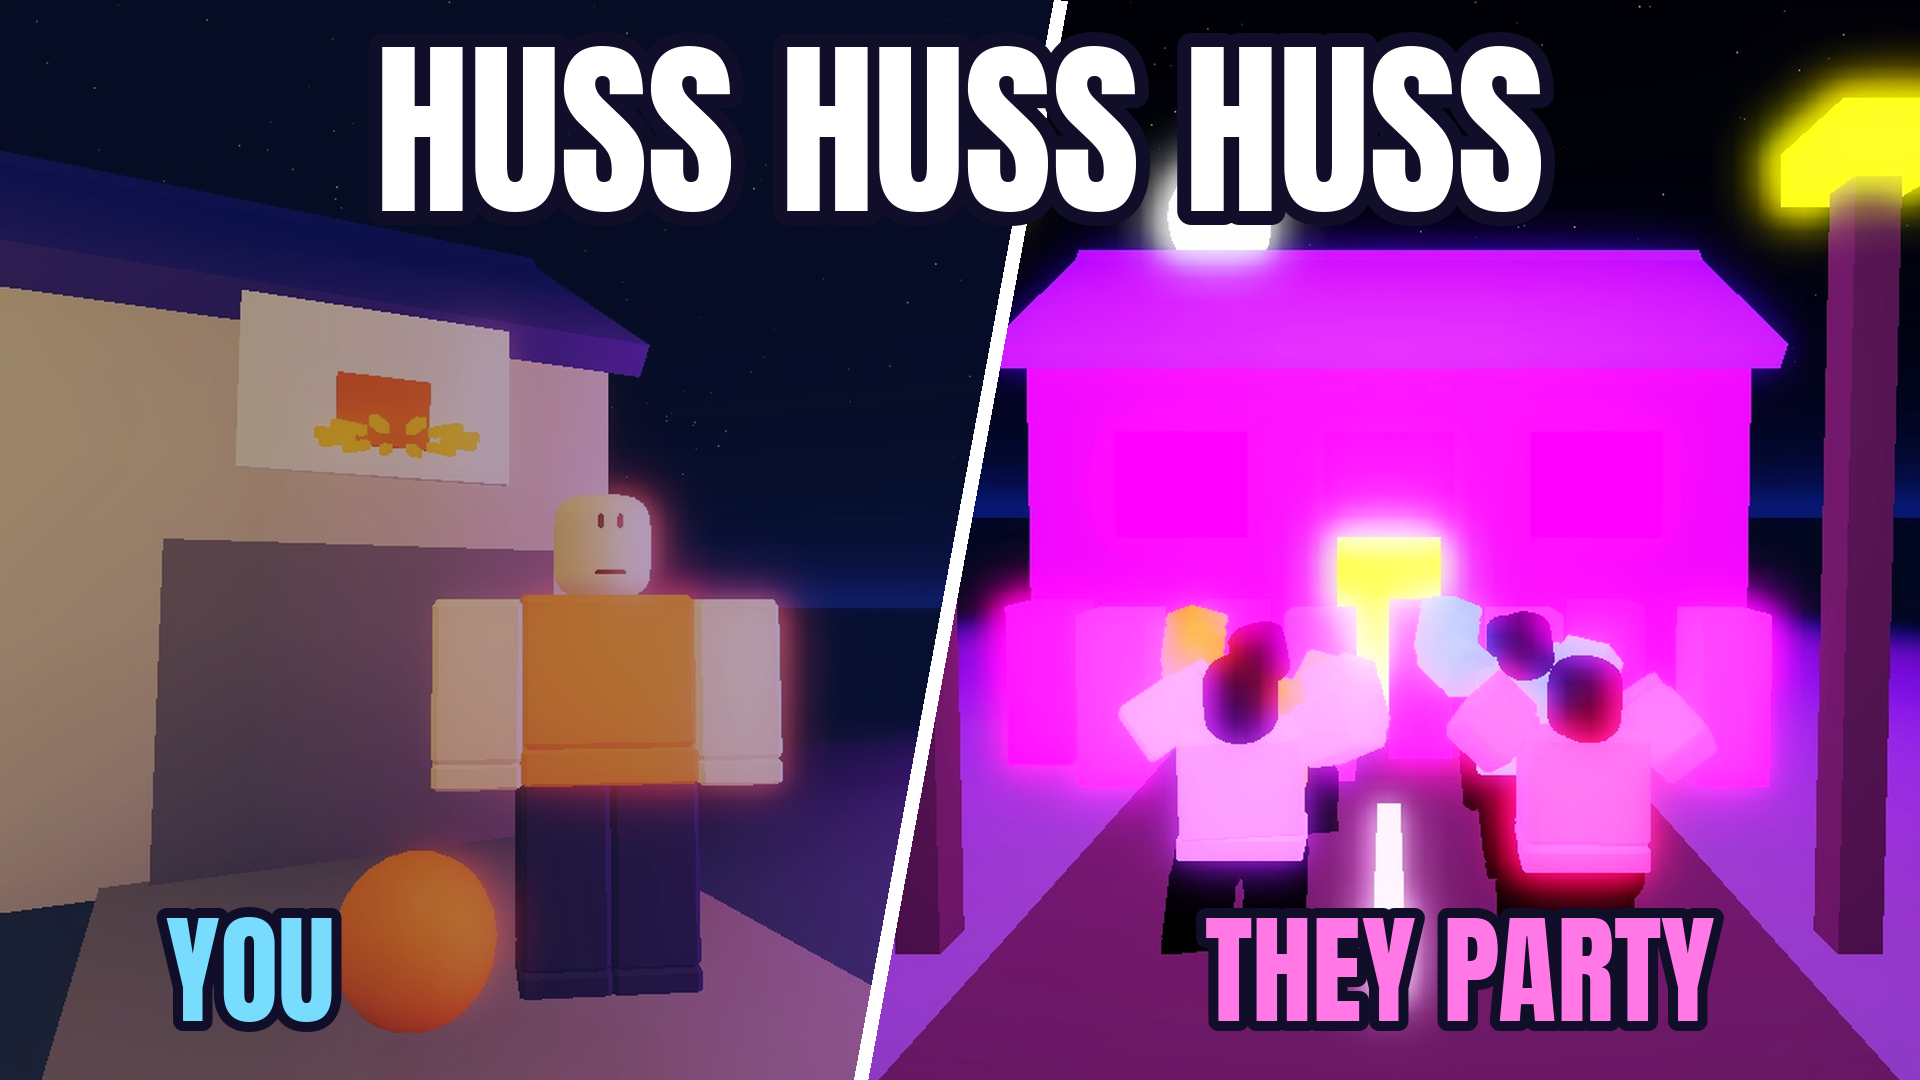
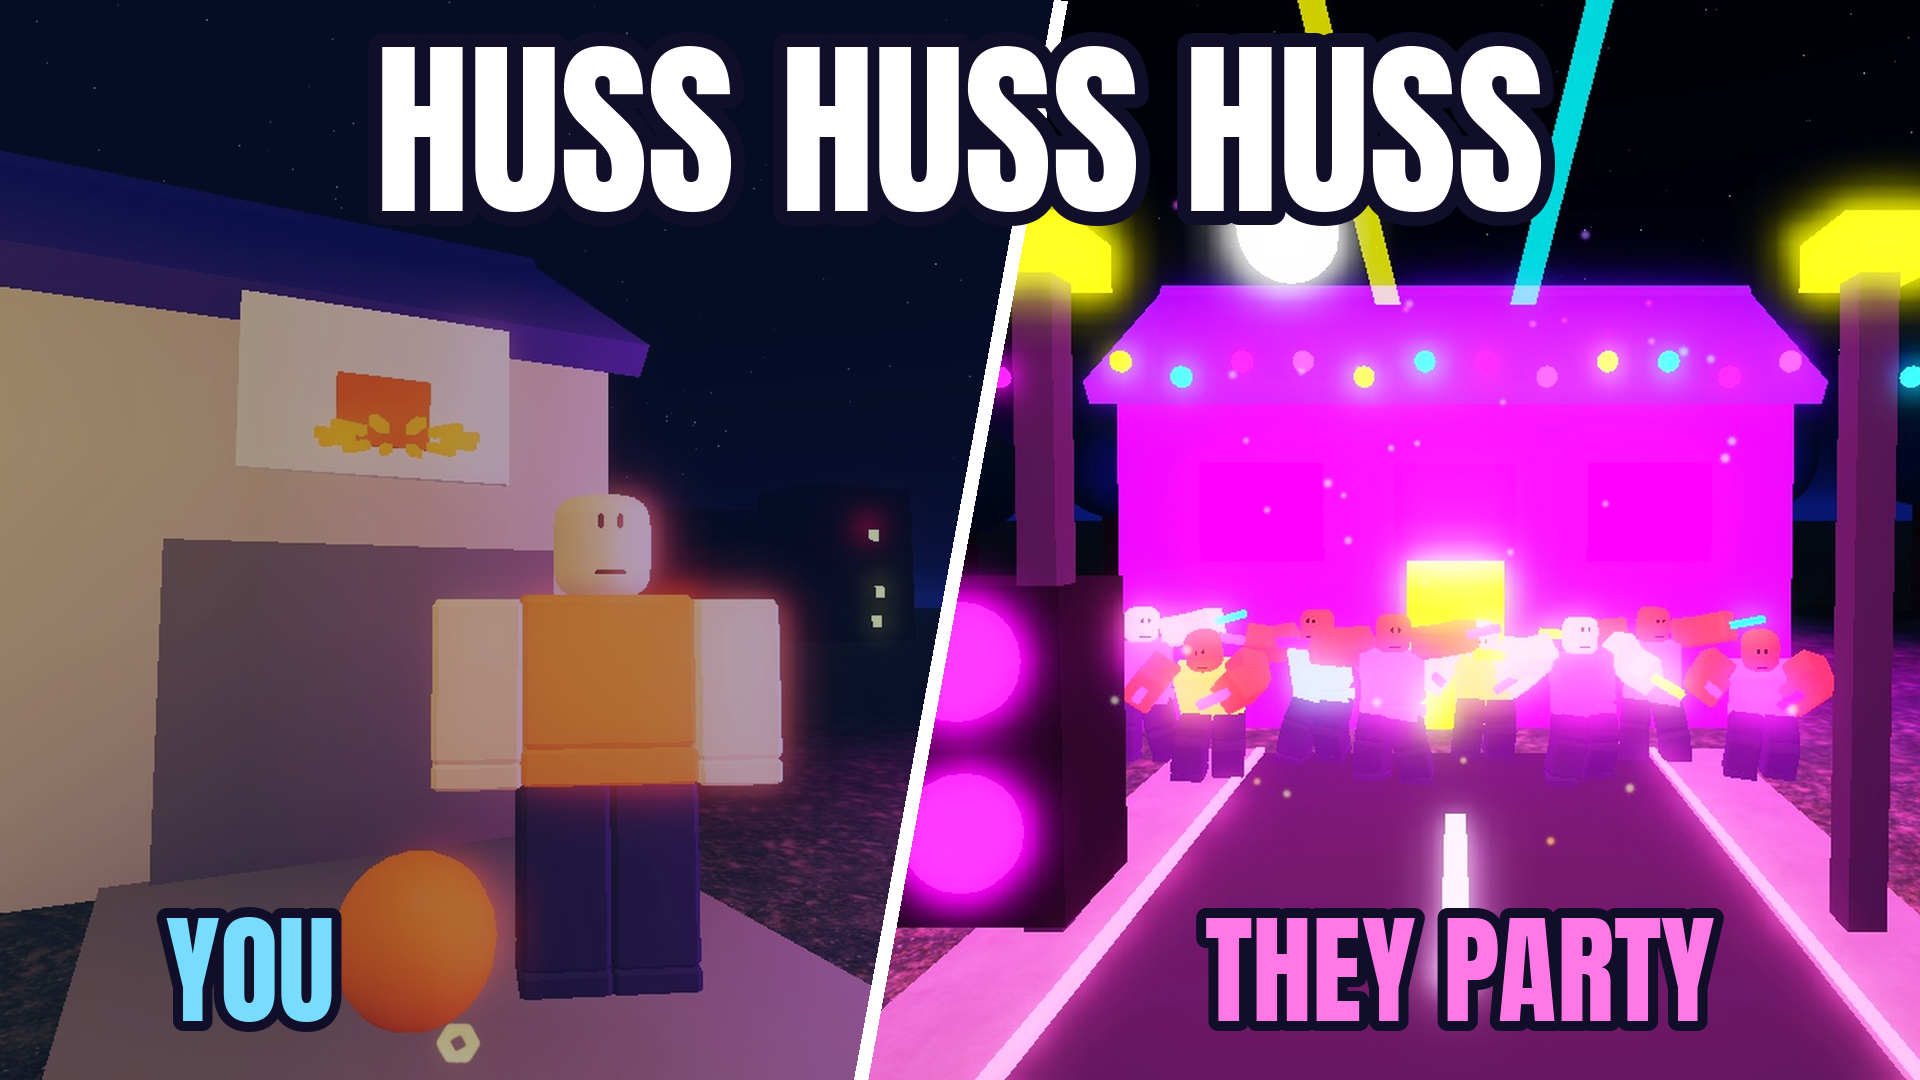
Thumbnail recaptured with the new party and neighbourhood
Claude-Session: https://claude.ai/code/session_01GEvW5Rx1YHQRL8dVj4mq73

Changed region(s): [[0.3125, 0.0, 1.0, 1.0], [0.6562, 0.0, 0.7188, 0.0306], [0.2188, 0.9472, 0.25, 1.0]]

diff --git a/scripts/thumbnail.py b/scripts/thumbnail.py
@@ -1,14 +1,14 @@
 import sys
 from PIL import Image, ImageDraw, ImageFont, ImageEnhance, ImageFilter
 D='/tmp/claude-tool-results/71c6616f-0a7c-57cd-8cf7-4feeb9716fa9/'
-left=Image.open(D+'mcp-remote-devices-blob-1795500768974-cb5h8z-9a5ce57c.jpg').convert('RGB')
-right=Image.open(D+'mcp-remote-devices-blob-1795500746405-rtzz0j-e6de36f9.jpg').convert('RGB')
+left=Image.open(D+'mcp-remote-devices-blob-1795504852206-2q44wj-b86adc47.jpg').convert('RGB')
+right=Image.open(D+'mcp-remote-devices-blob-1795504853624-uoskhu-faff50f0.jpg').convert('RGB')
 W,H=1920,1080
 def half(img, x0, x1):
     c=img.crop((x0,0,x1,img.height))
     return c.resize((int(c.width*H/c.height),H), Image.LANCZOS)
 L=half(left,560,1300)
-R=half(right,560,1310)
+R=half(right,500,1280)
 # cool the trainer side, push the party side
 blue=Image.new('RGB',L.size,(30,60,160))
 L=Image.blend(ImageEnhance.Brightness(L).enhance(0.85),blue,0.2)
@@ -28,6 +28,5 @@ def text(xy,s,size,fill,anchor='mm',stroke=10):
 text((W//2,130),'HUSS HUSS HUSS',190,(255,255,255),stroke=14)
 text((250,H-110),'YOU',120,(120,220,255))
 text((1460,H-110),'THEY PARTY',120,(255,120,230))
-out.save('thumbnail_final.png')
-out.resize((480,270),Image.LANCZOS).save('thumbnail_final_small.png')
+out.save(sys.argv[1] if len(sys.argv) > 1 else 'thumbnail.png')
 print(out.size)
